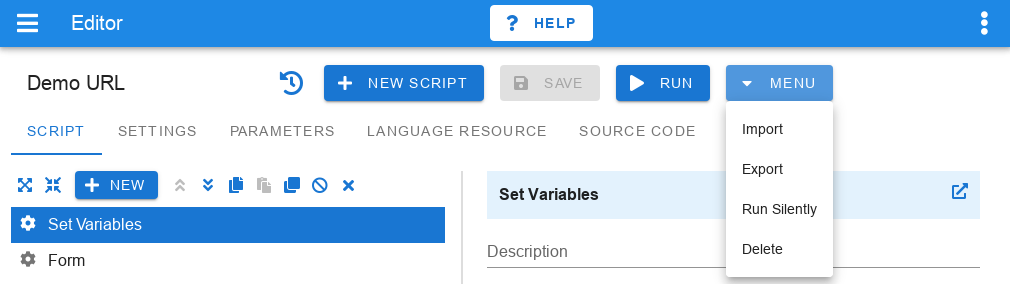
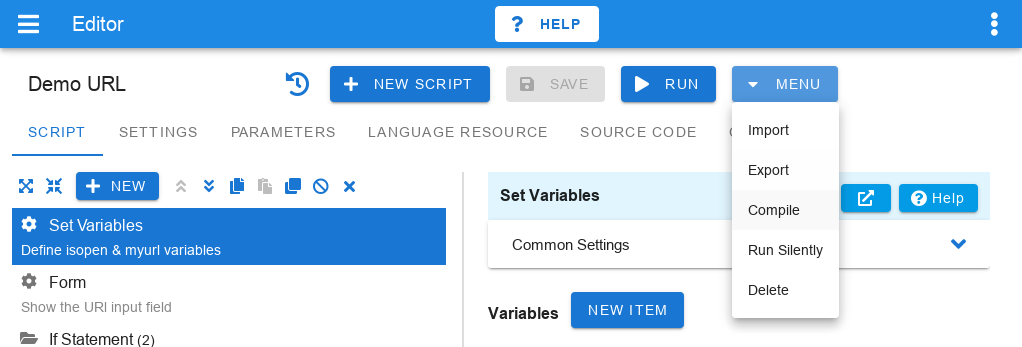
Added Compile page

diff --git a/ru/docs/editor.md b/ru/docs/editor.md
@@ -13,6 +13,7 @@ img:
 * [**Параметры**](editor-parameters.html) позволяют определить список входящих параметров, которые могут быть определены при вызове данного скрипта из других скриптов.
 * [**Языковые ресурсы**](editor-language-resources.html) позволяют реализовать многоязыковую поддержку при использовании скрипта.
 * [**Исходный код**](editor-source-code.html) позволяет использовать все возможности скриптового [языка программирования Gentee](https://github.com/gentee/gentee/) для решения сложных задач.
+* [**Компиляция**](editor-compile.html) - эта закладка показывается по запросу и позволяет смотреть сгенерированный код и результат компиляции без запуска скрипта.
 
 ## Верхнее меню
 
@@ -29,5 +30,6 @@ img:
 
 * **Импорт** - загружает скрипт из текстового *yaml* файла.
 * **Экспорт** - сохраняет текущий скрипт в виде текстового *yaml* файла.
+* **Компиляция** - открывает соответствующую закладку со сгенерированным кодом на языке Gentee и результатом его компиляции.
 * **Запустить скрытно** - запускает текущий скрипт без открытия закладки в браузере.
 * **Удалить** - удаляет текущий скрипт. Скрипт не может быть удален, если он используется в других скриптах. Также, не могут быть удалены встроенные скрипты.

diff --git a/ru/docs/editor-compile.md b/ru/docs/editor-compile.md
@@ -1,0 +1,21 @@
+---
+title: Страница Компиляция в редакторе Eonza
+desc: Документация для страницы Компиляция в редакторе Eonza.
+img:
+   editor-compile-1: editor-compile-1.png
+   editor-compile-2: editor-compile-2.png
+   editor-compile-3: editor-compile-3.png
+---
+# Компиляция
+
+По умолчанию, вкладка *Компиляция* скрыта. Она содержит сгенерированный код на языке программирования Gentee для данного скрипта и результаты компиляции этого кода. Эта информация поможет найти причины возникновения ошибки компиляции. Выберите пункт **Компиляция** в выпадающем меню, чтобы открыть данныю вкладку. Если код сгенерировался и скомпилировался успешно, то вы увидите соответствующее сообщение.
+
+%html.editor-compile-1%
+
+Если при запуске скрипта вы получили сообщение об ошибке, то нажмите на кнопку **Смотреть исходный код**. В этом случае данная вкладка будет открыта и вы можете изучить строку в которой произошла ошибка компиляции.
+
+%html.editor-compile-2%
+
+Кнопка *Компиляции* повторяет процесс генерации и компиляции кода. Кнопка *Скрыть* скрывает данную закладку.
+
+%html.editor-compile-3%

diff --git a/en/docs/editor-compile.md b/en/docs/editor-compile.md
@@ -1,0 +1,25 @@
+---
+title: Compile page in Eonza editor
+desc: Documentation for Compile page in Eonza editor.
+img:
+   editor-compile-1: editor-compile-1.png
+   editor-compile-2: editor-compile-2.png
+   editor-compile-3: editor-compile-3.png
+html:
+   editor-compile-1: '<img src="%img.editor-compile-1%" style="margin: 1em 1em;"/>'
+   editor-compile-2: '<img src="%img.editor-compile-2%" style="margin: 1em 1em;"/>'
+   editor-compile-3: '<img src="%img.editor-compile-3%" style="margin: 1em 1em;"/>'
+---
+# Compile
+
+By default, the *Compilу* tab is hidden. It contains the generated code in the Gentee programming language for the current script and the results of compiling this code. This information will help you find the reasons for the compilation error. Select **Compile** from the drop-down menu to open this tab. If the code has been generated and compiled successfully, you will see a corresponding message.
+
+%html.editor-compile-1%
+
+If you received an error message when running the script, click on the button **View Source Code**. In this case this tab will open and you can examine the line where the compilation error occurred.
+
+%html.editor-compile-2%
+
+The *Compile* button repeats the code generation and compilation process. The *Hide* button hides this tab.
+
+%html.editor-compile-3%

diff --git a/en/docs/editor.md b/en/docs/editor.md
@@ -15,6 +15,7 @@ The editor allows you to create and edit scripts. Each script has different para
 * [**Parameters**](editor-parameters.html) allows you to define the list of input parameters, which can be defined when calling this script from other scripts.
 * [**Language resources**](editor-language-resources.html) allows you to implement multilingual support when using a script.
 * [**Source code**](editor-source-code.html) allows to use all features of [Gentee programming language](https://github.com/gentee/gentee/) for solving complex tasks.
+* [**Compile**](editor-compile.html) - this tab is shown on request and allows you to view the generated code and compilation result without running the script.
 
 ## Top menu
 
@@ -31,5 +32,6 @@ The following items are in the drop-down menu.
 
 * **Import** - loads the script from the text *yaml* file.
 * **Export** - saves the current script as a text *yaml* file.
+* **Compile** - opens the corresponding tab with the generated Gentee code and the result of its compilation.
 * **Run Silently** - starts the current script without opening a bookmark in the browser.
 * **Delete** - deletes the current script. The script cannot be deleted if it is used in other scripts. Also, embedded scripts cannot be removed.
